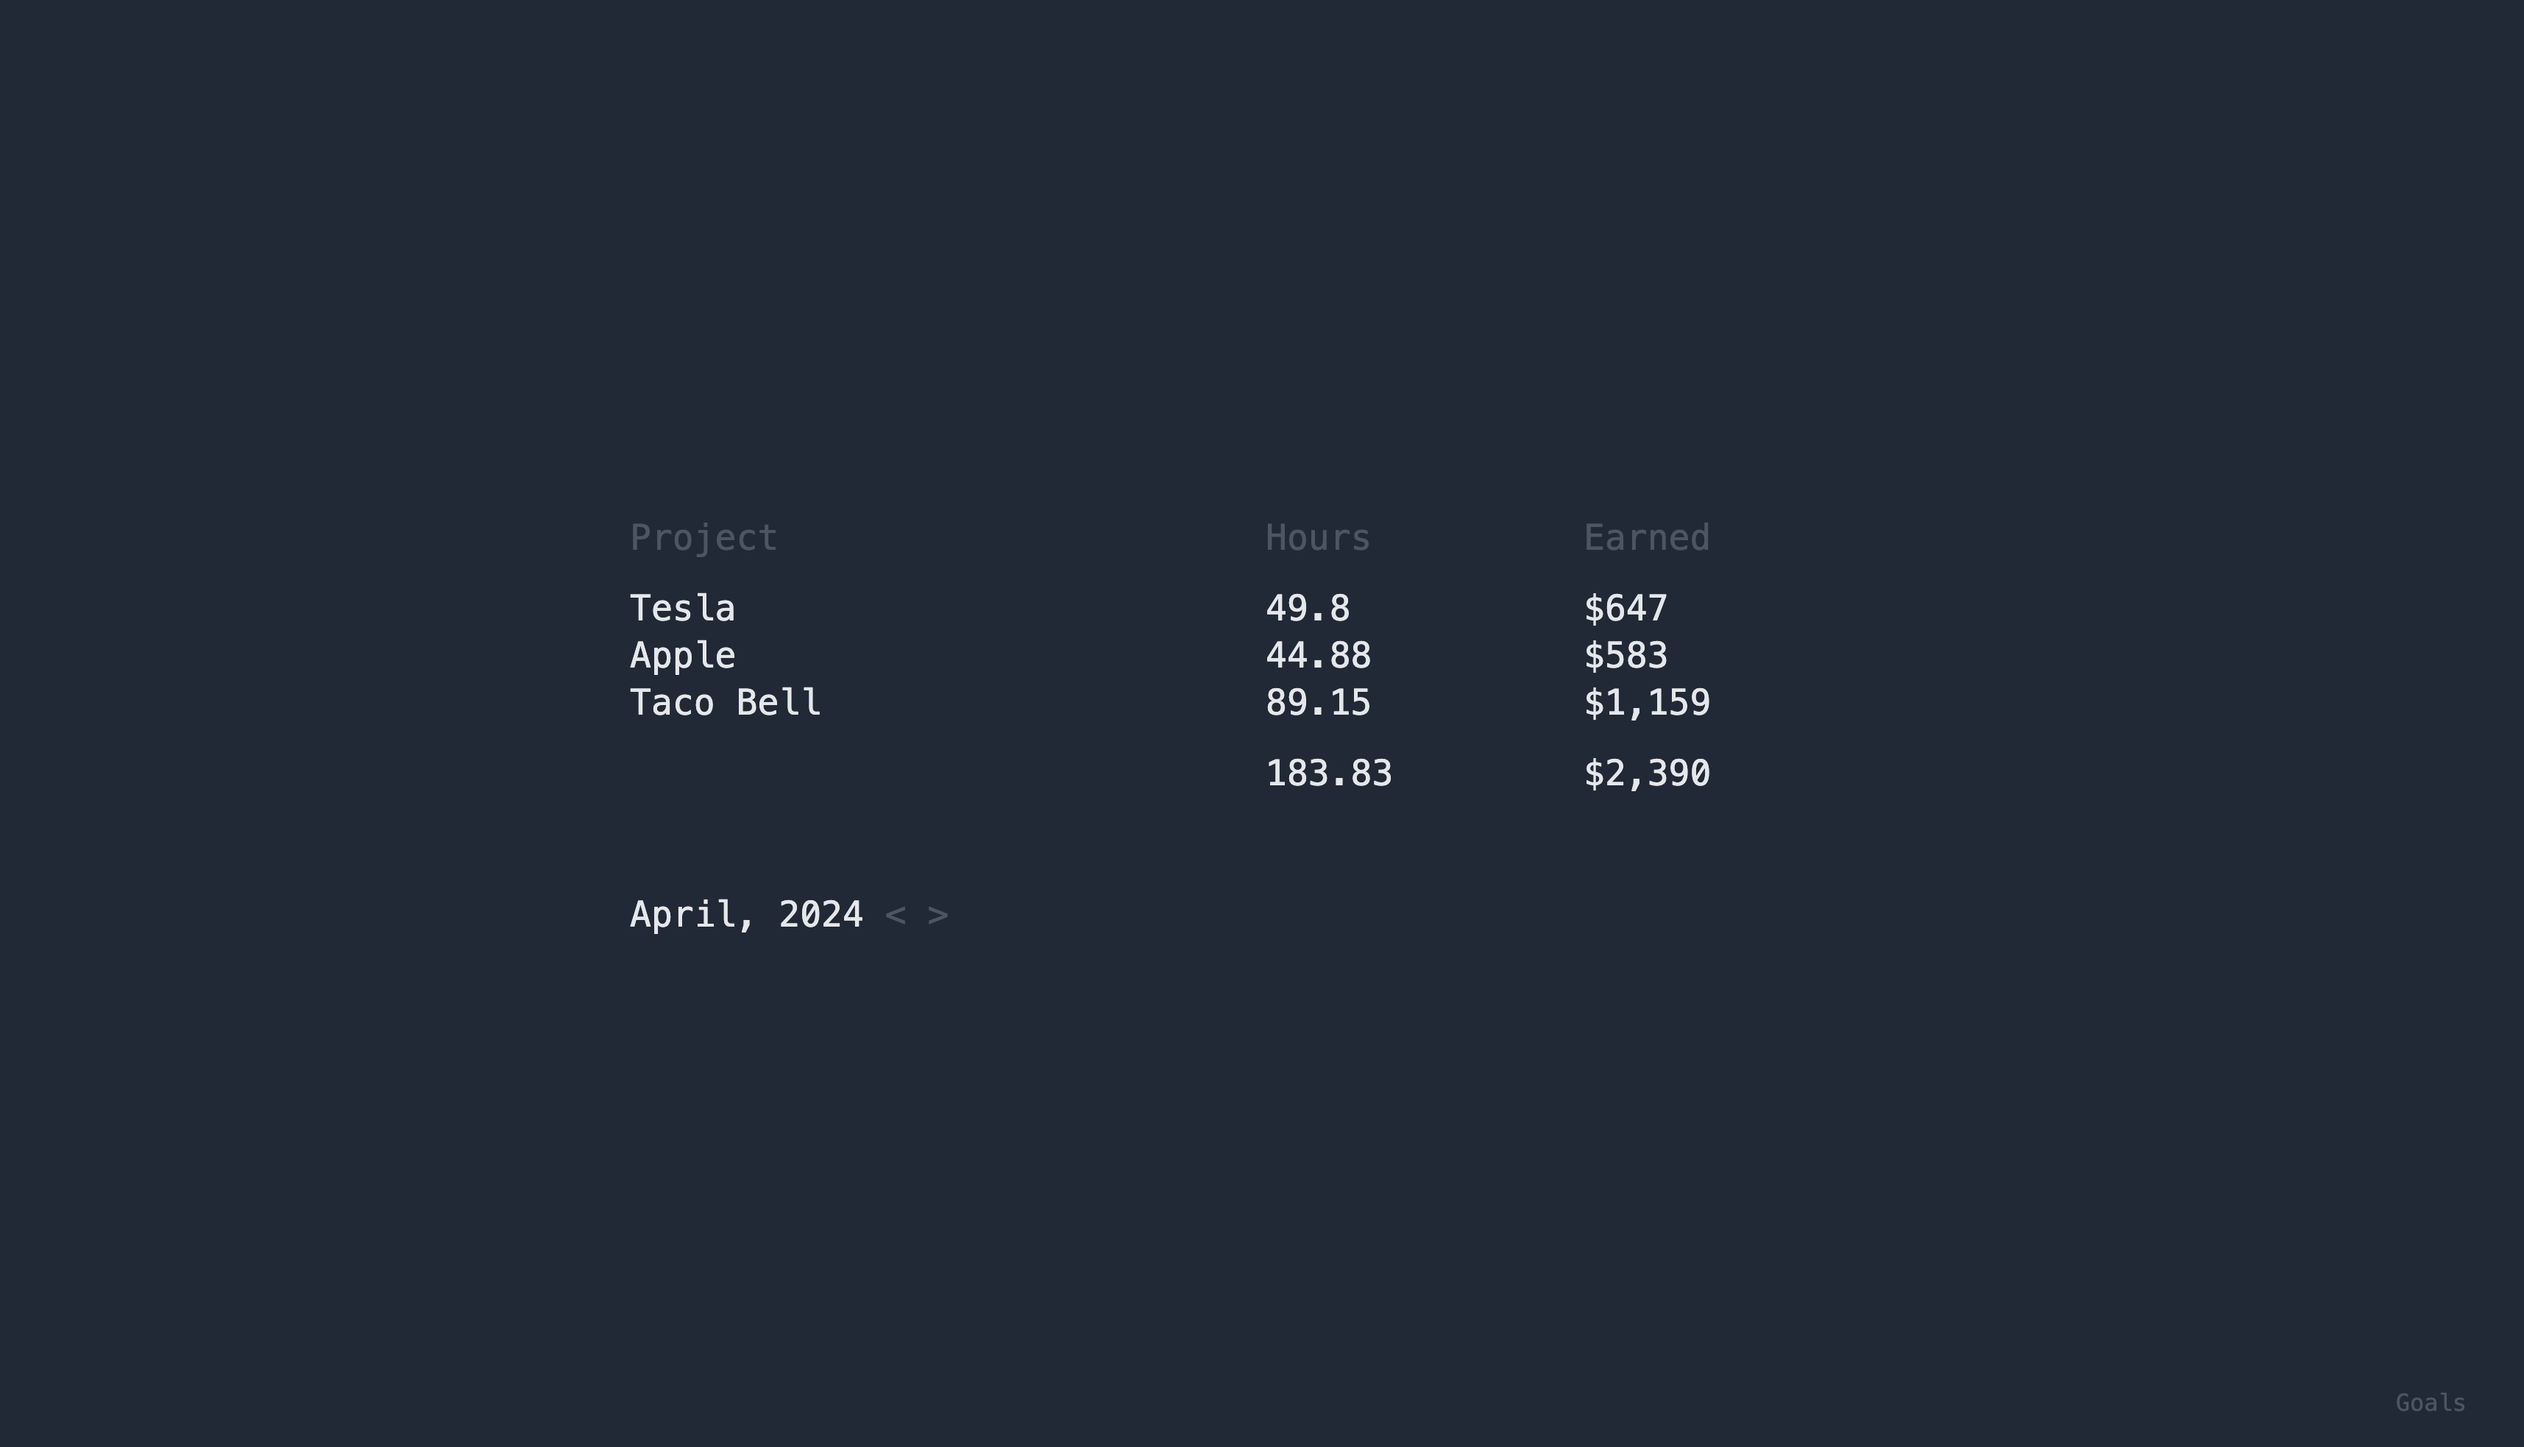
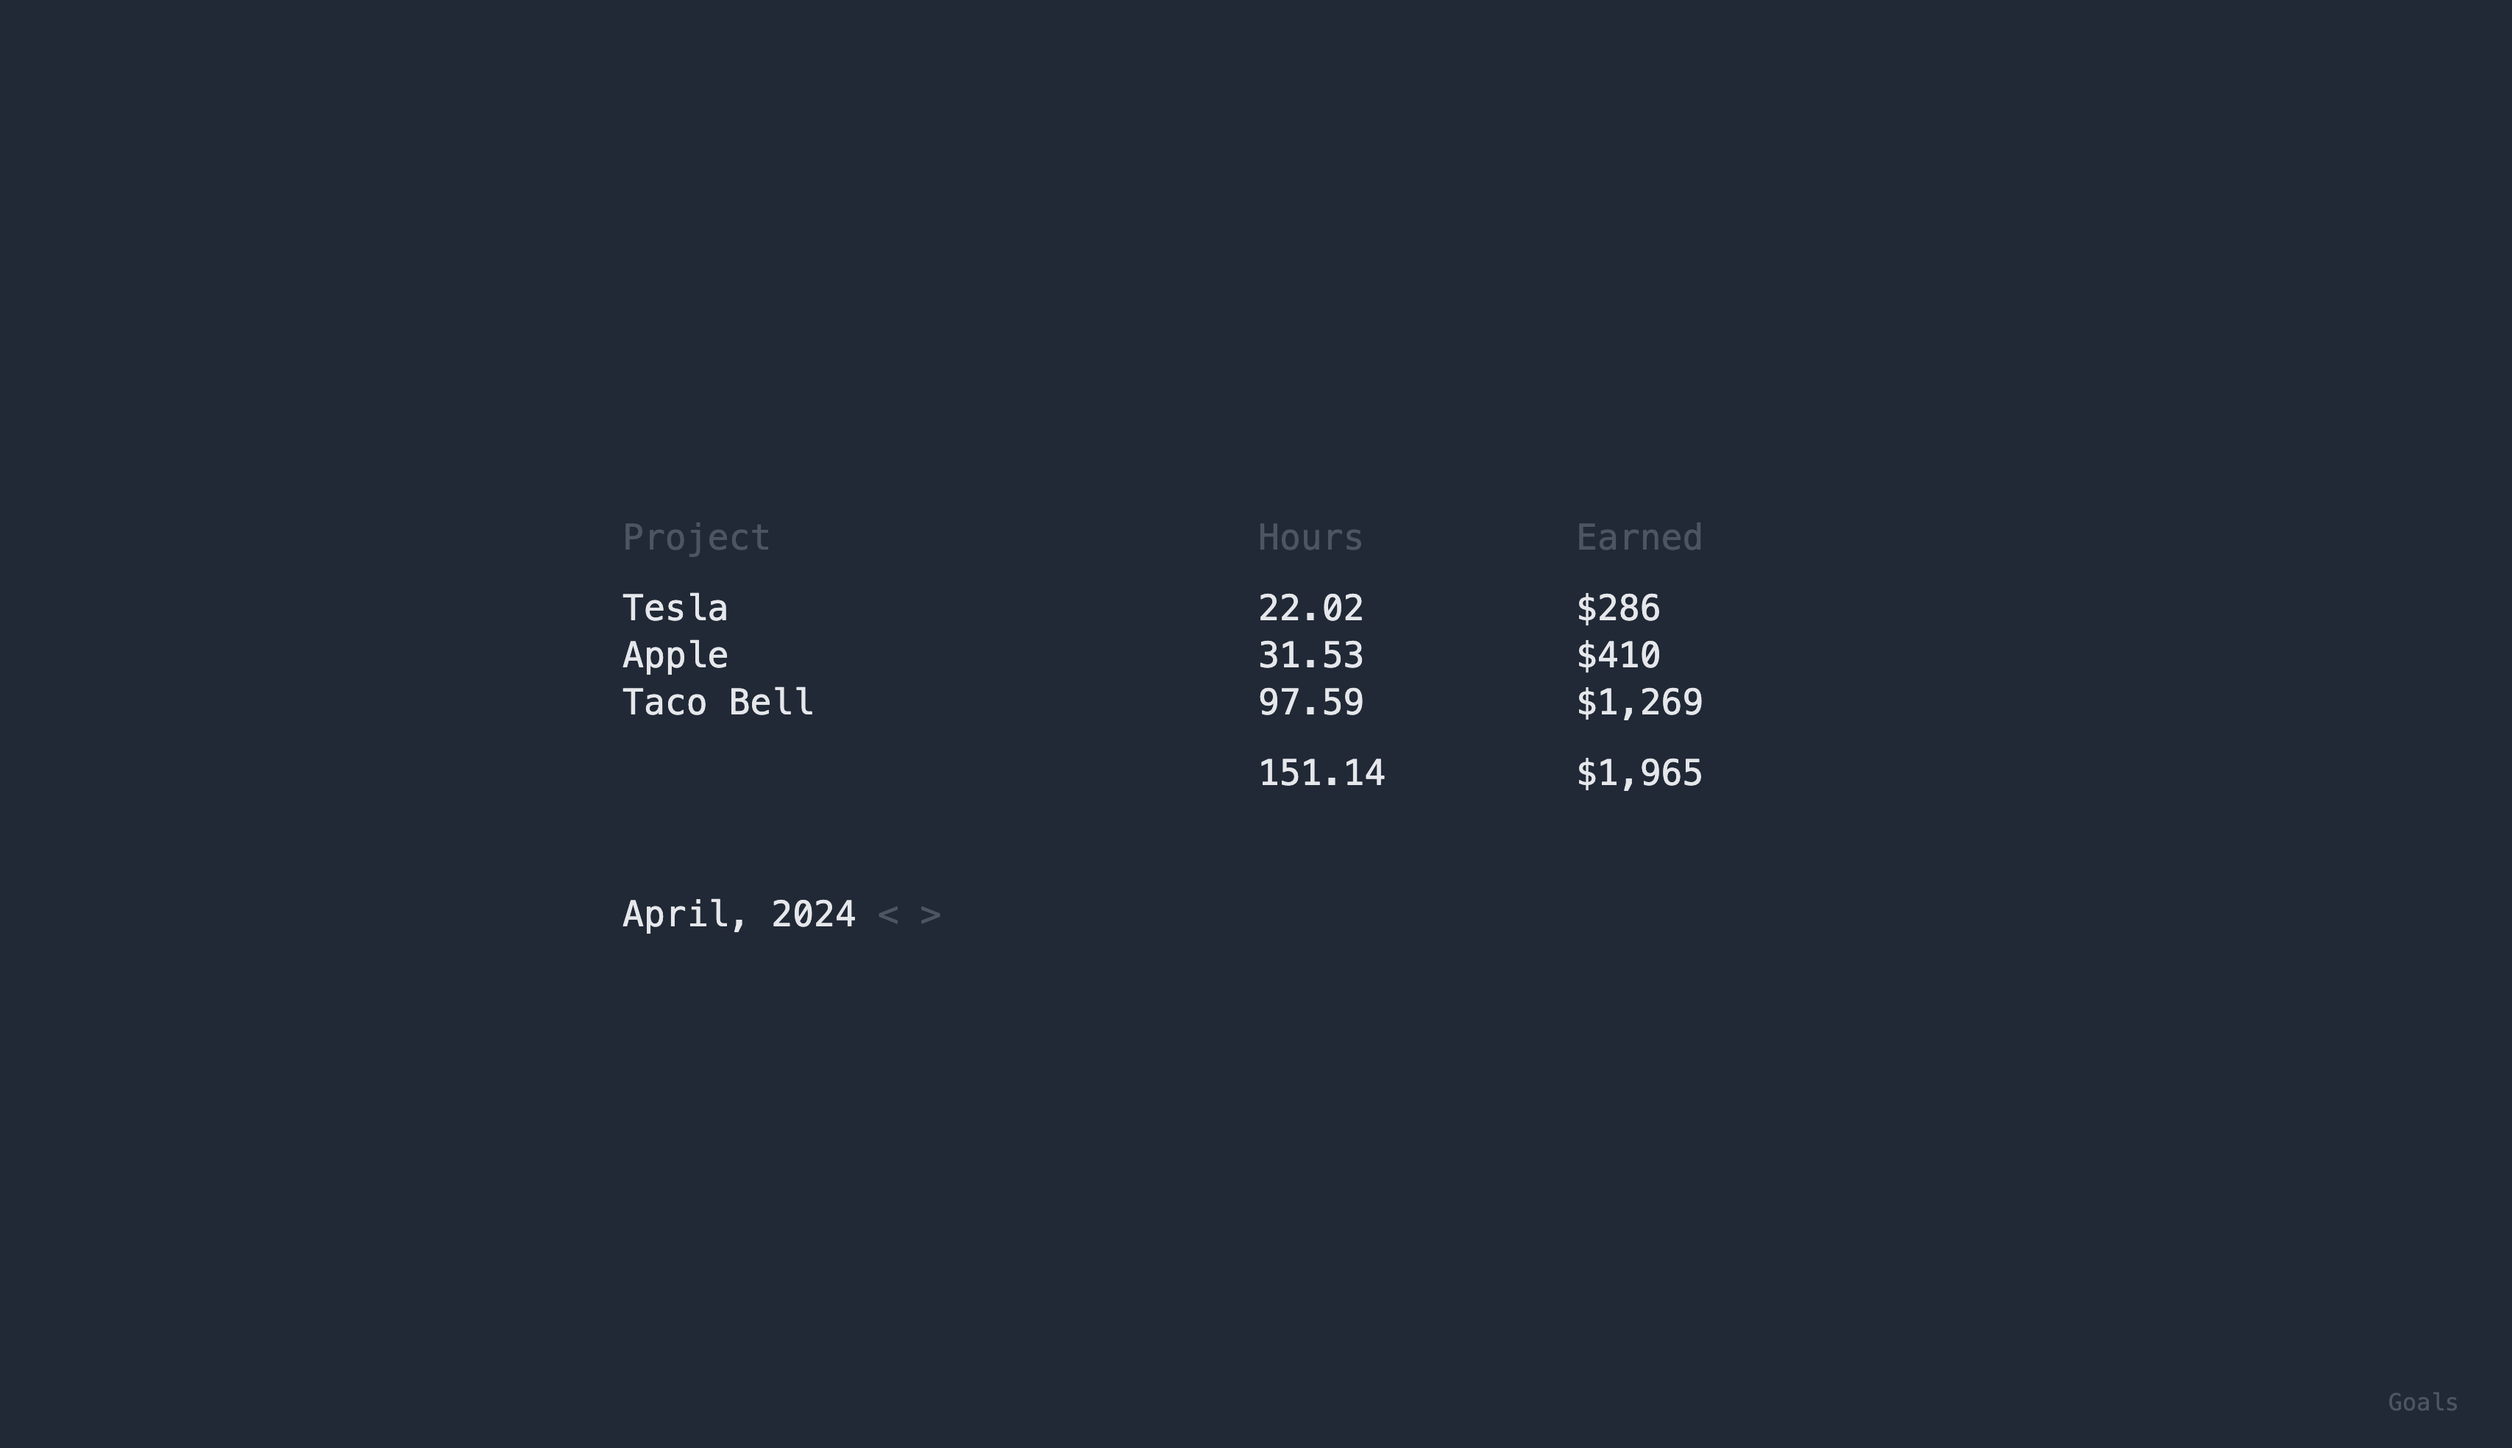
update screenshots, fix bug

diff --git a/app/Livewire/Goals.php b/app/Livewire/Goals.php
@@ -16,10 +16,6 @@ class Goals extends Component
 
     public function render(Trackers $trackers, Preferences $preferences)
     {
-        $trackers
-            ->addTracker(new Mayven())
-            ->addTracker(new Everhour());
-
         return $this->response($trackers, $preferences);
     }
 
